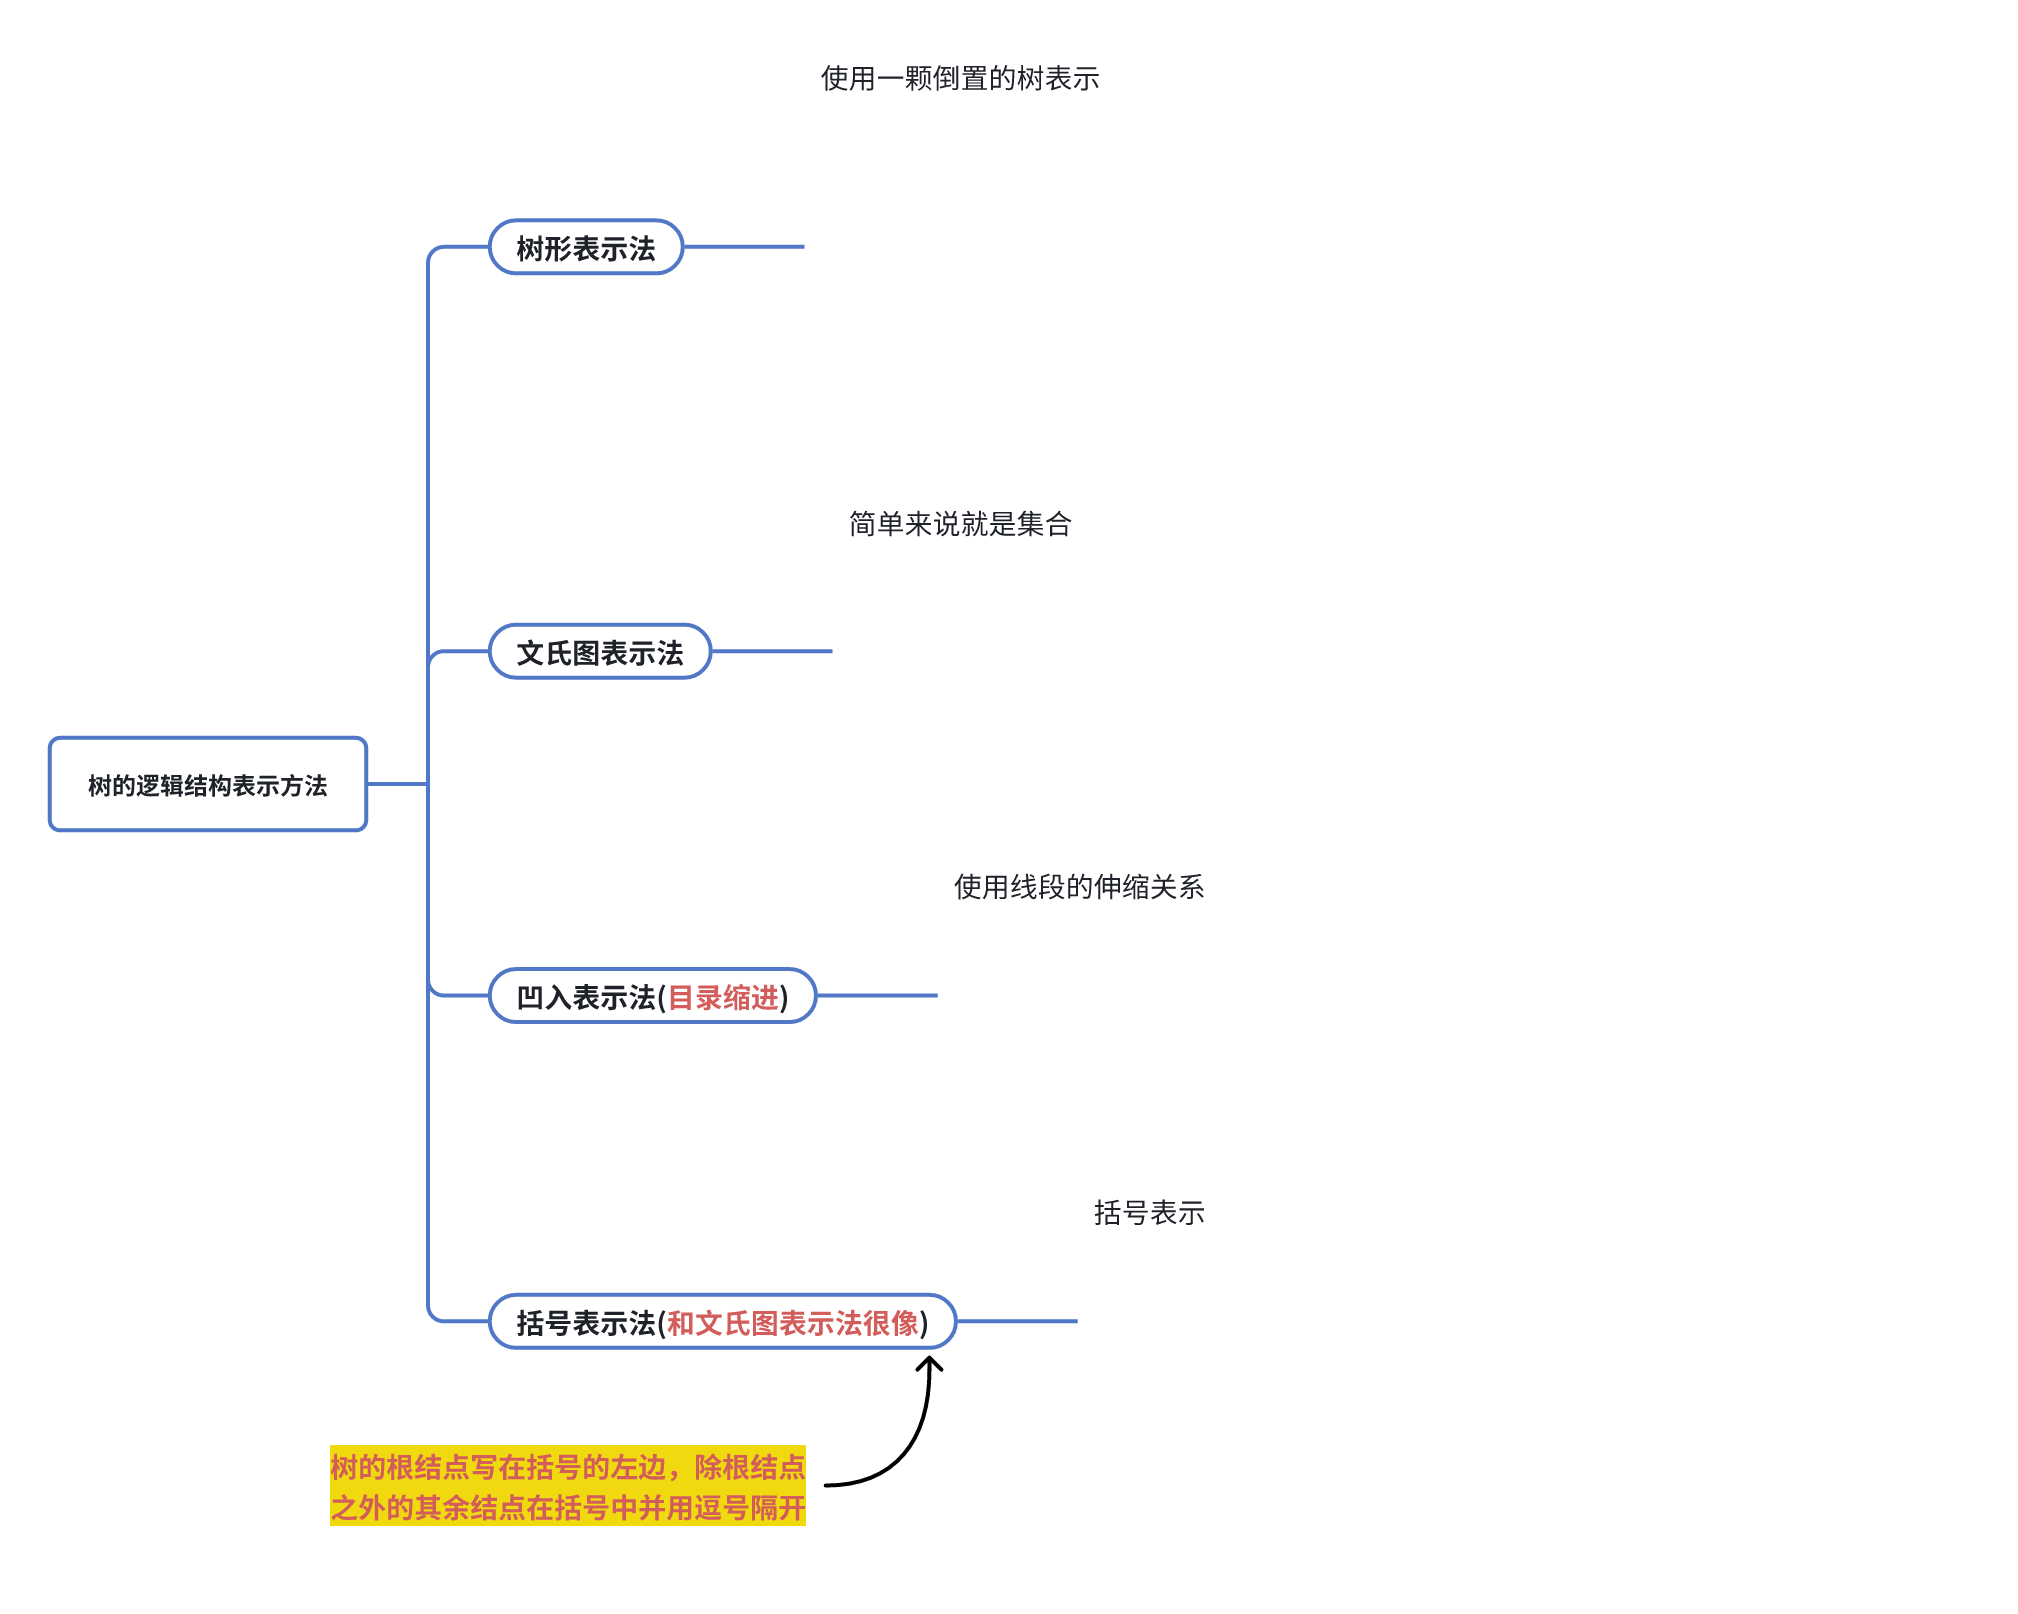
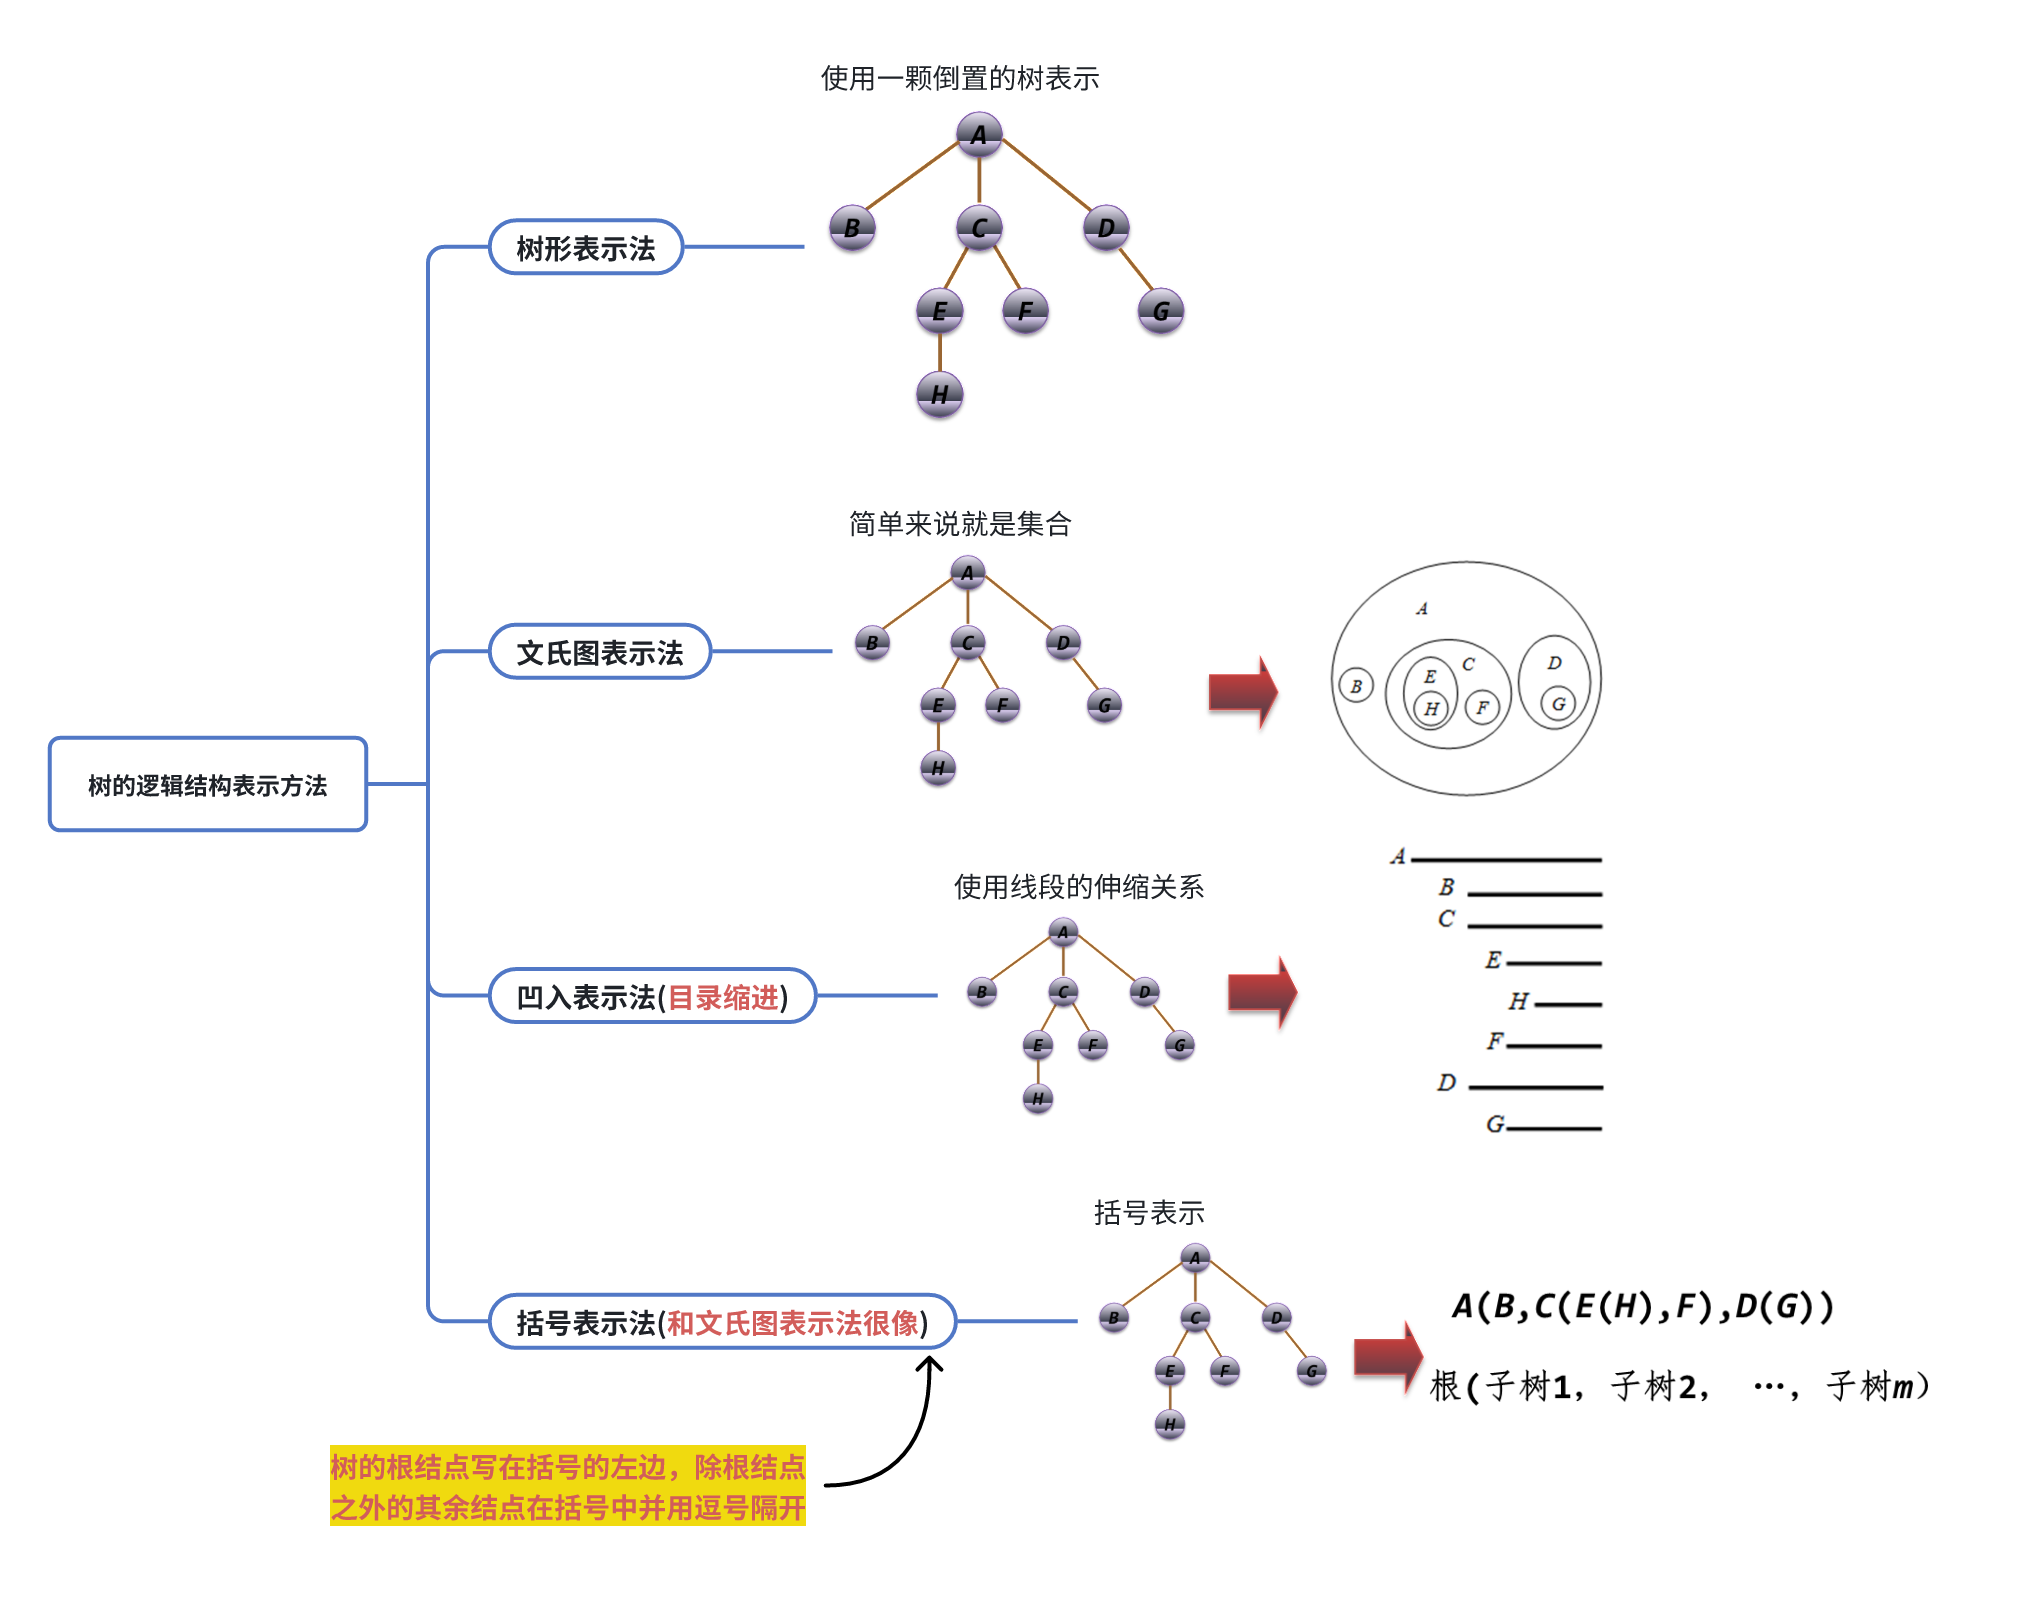
Add files via upload

diff --git a/ch07二叉树（更新到7.1）/ch07二叉树（更新到7.1）.md b/ch07二叉树（更新到7.1）/ch07二叉树（更新到7.1）.md
@@ -30,19 +30,26 @@
 
 ## 7.1.3树的基本术语
 
+**结点的度 VS 树的度**
+
+> 结点度，看自己；树度，看全班（找最大）
+
 ![](images/diagram-3.png)
 
 ## 7.1.4树的性质
 
-# 7.2二叉树
+![](images/diagram-4.png)
 
-# 7.3二叉树先序、中序、后序遍历
+## 7.1.5树的基本运算
 
-# 7.4二叉树的层次遍历
+1. 查找满足某种特定关系的结点，如寻找当前结点的双亲结点等；
 
-# 7.5二叉树的构造
+2. 插入或删除某个结点，如在树的当前结点上插入一个新结点或删除当前结点的第*i*个孩子结点等；
 
-# 7.7哈夫曼树
+3. 遍历树中每个结点。
 
-# 7.8二叉树与树、森林之间的转换
+## 7.1.6树的存储结构
 
+> 双亲存，找爹易；孩子链，寻儿快。二者优缺点正相反，根据需求做选择
+
+![](images/diagram-5.png)
